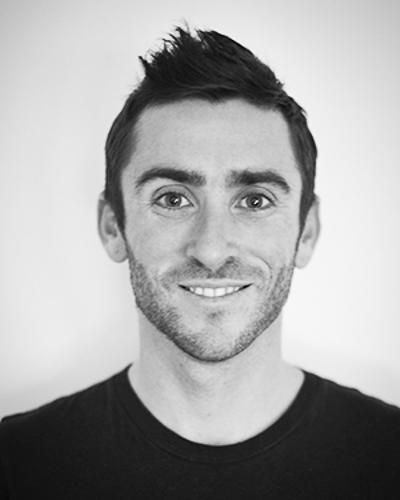
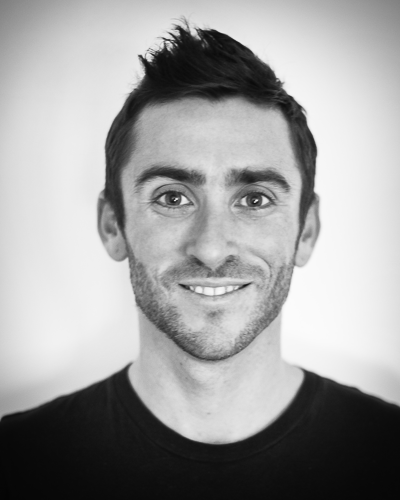
added Kevin's bio and headshot; set presentation order; processed higher-fidelity headshots for Joe and Josh

diff --git a/bin/core.js b/bin/core.js
@@ -19,7 +19,7 @@ function setup(opts, sugar) {
     .use("metalsmith-collections", {
       team: {
         pattern: "team/*.md",
-        sort: "name"
+        sort: "rank"
       },
       tiles: {
         pattern: "landing-tiles/*.md",

diff --git a/source/team/kevin.md b/source/team/kevin.md
@@ -1,0 +1,12 @@
+---
+name: Kevin Blazzard
+image: kevin.png
+rank: 5
+social:
+  - name: LinkedIn
+    link: "https://www.linkedin.com/in/kevin-blazzard/"
+    icon: fa-linkedin
+---
+Kevin started with the Human Enginuity team in 2015 as the Program Manager for the Product for payments at Xero, Inc. where he provided strategic guidance to team and project managers supporting the team and its culture. Kevin was able to identify and negotiate contracts with key vendors that lead to increase ROI on projects, successfully worked with external teams to build interdependent roadmaps, timelines, priorities and provided weekly status communications to external stakeholders.  Kevin was able to identify potential roadblocks and jump in successfully to ensure the team was able to meet delivery deadlines.
+
+Previously, Kevin was the Operations Manager at LearnBig, a corporate e-Learning startup where he was responsible for day-to-day operations. Kevin successfully introduced new processes and procedures to ensure key systems were running smoothly in order to meet the needs and expectations of the staff and customers through LearnBig's acquisition in May 2015 and again for its 2nd acquisition in 2017.

diff --git a/source/team/josh.md b/source/team/josh.md
@@ -1,10 +1,11 @@
 ---
 name: Josh Vincent
 image: josh.png
+rank: 4
 social:
   - name: LinkedIn
-    link: "https://www.linkedin.com/in/joshvincent"
     icon: fa-linkedin
+    link: "https://www.linkedin.com/in/joshvincent"
 ---
 Josh has been building software since his computer science days at university. He is a seasoned product manager, designer and entrepreneur. He spent almost a decade shipping products at Microsoft, followed by 3 startups in Silicon Valley. Most recently he worked with the rest of the Human Enginuity team shipping a major payments network for businesses and employees.
 

diff --git a/source/team/boris.md b/source/team/boris.md
@@ -1,6 +1,7 @@
 ---
 name: Boris Gbahoué
 image: boris.jpg
+rank: 3
 social:
   - name: LinkedIn
     link: "https://www.linkedin.com/in/boris-gbahou%C3%A9-7141a0/"

diff --git a/source/team/brad.md b/source/team/brad.md
@@ -1,6 +1,7 @@
 ---
 name: Brad Gibson
 image: brad.png
+rank: 1
 social:
   - name: LinkedIn
     link: "https://www.linkedin.com/in/gibsonbrad"

diff --git a/source/team/joe.md b/source/team/joe.md
@@ -1,6 +1,7 @@
 ---
 name: Joe Wasson
 image: joe.png
+rank: 2
 social:
   - name: LinkedIn
     link: "https://www.linkedin.com/in/joewasson"
